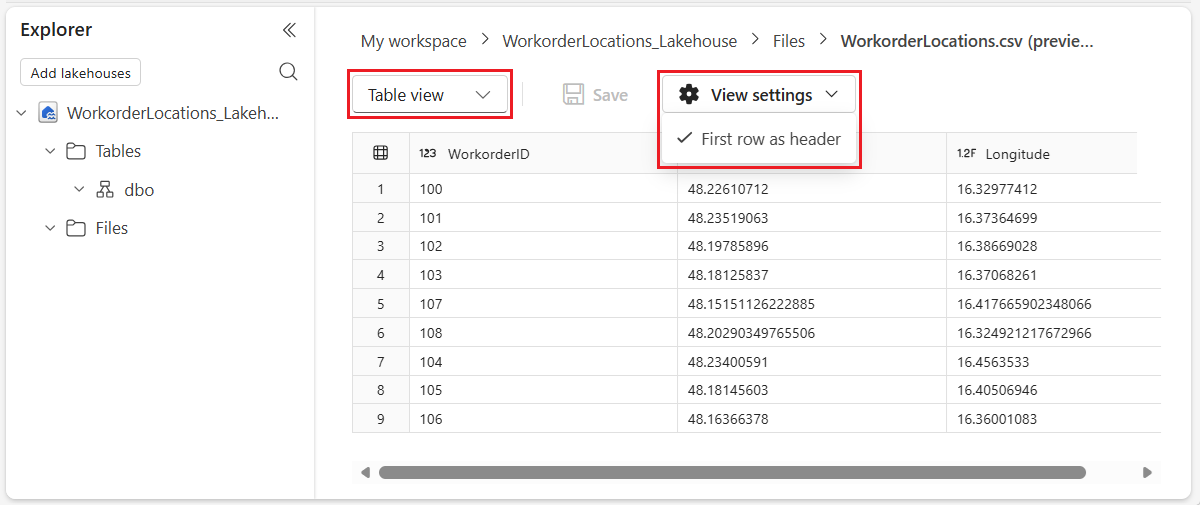
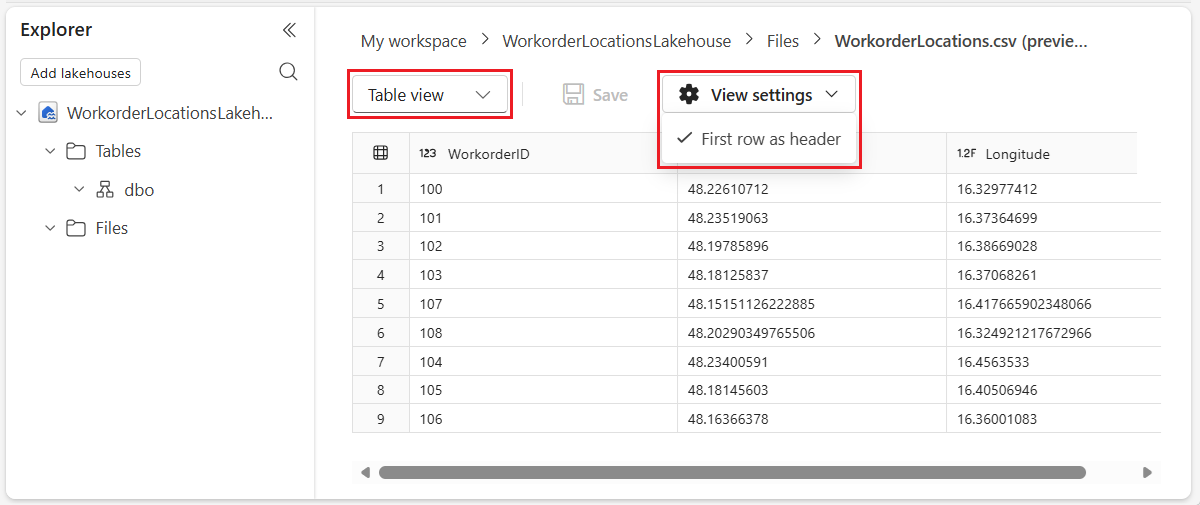
removed '_' from lakehouse name.

Changed region(s): [[0.5242, 0.0594, 0.8942, 0.1188], [0.185, 0.2079, 0.2467, 0.2376]]

diff --git a/docs/real-time-intelligence/map/tutorial-real-time-work-order-routing-application.md b/docs/real-time-intelligence/map/tutorial-real-time-work-order-routing-application.md
@@ -80,7 +80,7 @@ WorkorderID,Latitude,Longitude
 Create a new lakehouse for incoming work order data and import the previously created work order location file.
 
 1. From your workspace, select **New item**, and enter *lakehouse* in the search box and select it to create a new lakehouse.
-1. Enter a name *WorkorderLocations_Lakehouse* and select **Create**.
+1. Enter a name *WorkorderLocationsLakehouse* and select **Create**.
 1. In the new lakehouse, select **Upload files** and upload the *WorkorderLocations.csv* file created in the previous step.
 1. In the new lakehouse, select the **Explorer** pane on the left side of the screen.
 1. In the **File** section of the **Explorer**, select *WorkorderLocations.csv* to view the file you uploaded.
